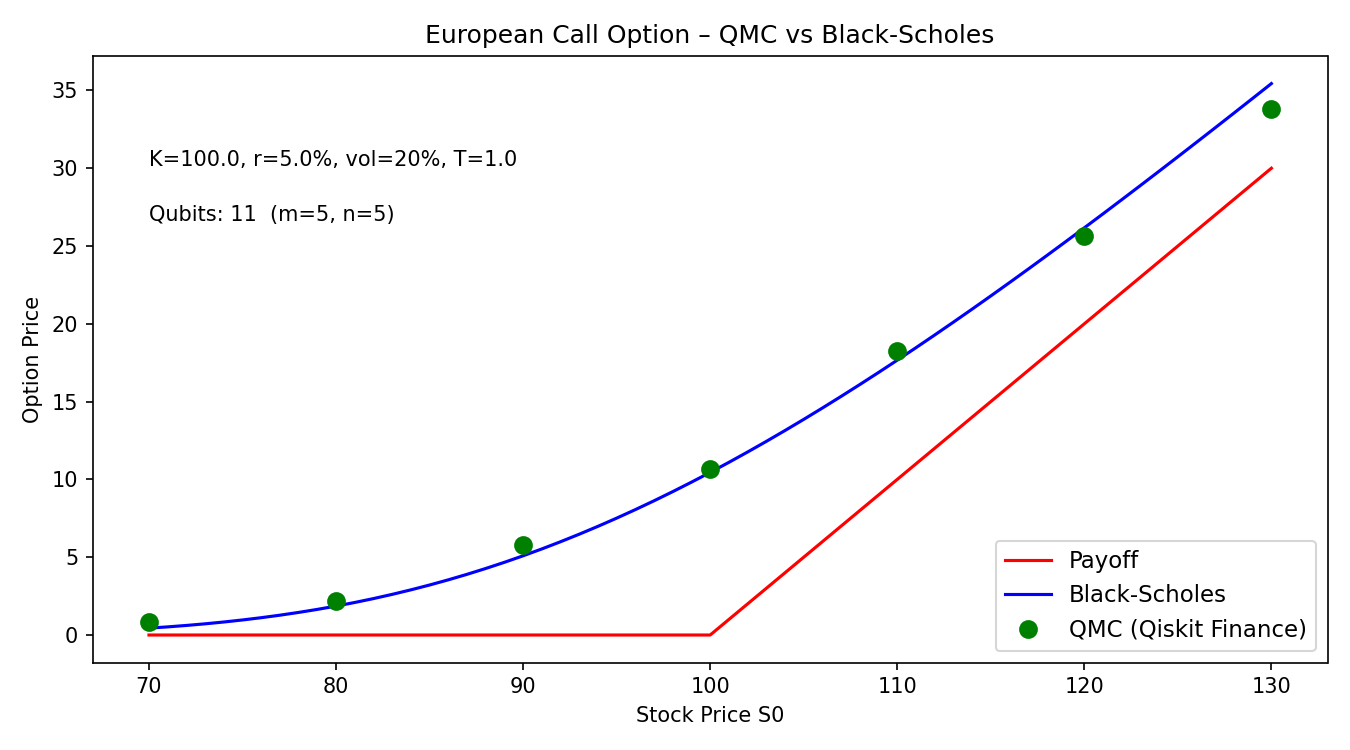
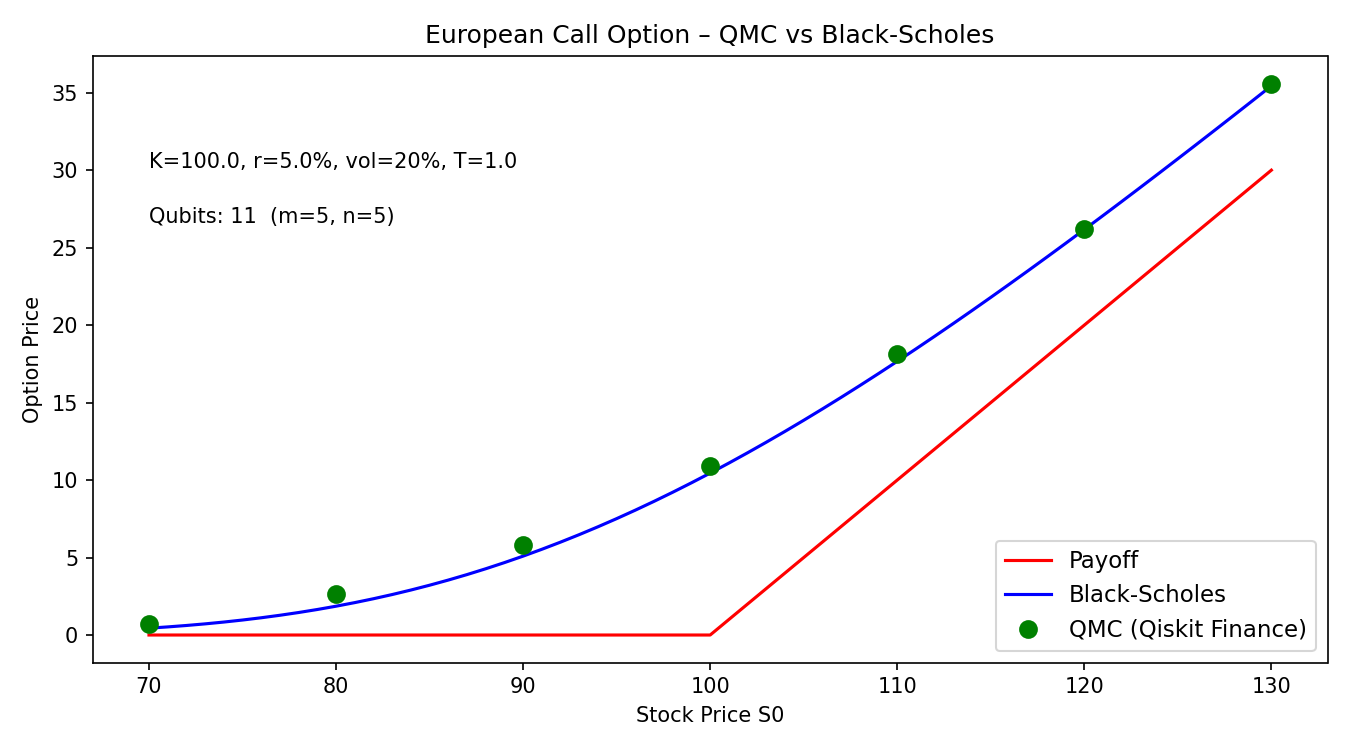
refactor(i18n): backend 잔여 error 메시지 일괄 key+params 마이그레이션
이전 commit (1fe9e38) 의 backend i18n 작업이 우선순위 高 경로만 처리.
잔여 사용자 노출 error 직박 11곳을 모두 key 기반으로 변환. legacy
error 텍스트는 호환 fallback 으로 유지 (점진 제거).

변환 대상 (mcp_server.py):
- uqi_validate / uqi_noise_simulate 의 framework 감지 실패
- uqi_validate 의 AHS validation/framework 미일치
- uqi_noise_simulate 의 AHS noise sim 실패
- uqi_job_status 의 job_id 미발견 / 미지원 vendor
- uqi_job_cancel 의 job_id 누락 / 이미 종료 상태
- cancel job 의 cloud_result 한국어 "클라우드 취소 미지원" → 영문
  (msg.cancel_local_only 의 detail 로 합쳐 표시되는 인라인 텍스트)

새 locale 키:
- backend.ahs.validation_failed / noise_sim_failed
- backend.job.not_found / unsupported_vendor / cancel_already_terminal
- (en/ko/fr + inline _LOCALE_*)

현재 상태:
- mcp_server.py 의 직박 "error" 한국어 라인은 모두 legacy fallback
  으로 유지됨 (각각 error_key 동행). webapp 가 _renderBackendError
  를 통해 i18n 렌더링하므로 사용자 노출 X.
- "수백 곳" 으로 추정했던 영문/한국어 텍스트는 대부분 print/주석/
  docstring (사용자 노출 X). 마이그레이션 대상은 ~11곳에 한정.

회귀 1013/1013 통과.

diff --git a/src/mcp_server.py b/src/mcp_server.py
@@ -360,7 +360,12 @@ def _validate_ahs(algorithm_file: str, qpu_name: str) -> str:
     try:
         framework = UQIExtractor(algorithm_file).detect_framework()
     except Exception as e:
-        return _json.dumps({"ok": False, "error": f"framework 감지 실패: {e}"})
+        return _json.dumps({
+            "ok":           False,
+            "error_key":    "backend.framework_detect_failed",
+            "error_params": {"detail": str(e)},
+            "error":        f"framework 감지 실패: {e}",
+        })
 
     checks = []
     metrics = {}
@@ -446,10 +451,19 @@ def _validate_ahs(algorithm_file: str, qpu_name: str) -> str:
                            is_parameterized,
                            "Parameterized (variables present)" if is_parameterized else f"build failed: {msg[:80]}")
         else:
-            return _json.dumps({"ok": False,
-                                "error": f"AHS framework 아님: {framework}"})
+            return _json.dumps({
+                "ok":           False,
+                "error_key":    "backend.ahs.not_ahs_framework",
+                "error_params": {"framework": framework},
+                "error":        f"AHS framework 아님: {framework}",
+            })
     except Exception as e:
-        return _json.dumps({"ok": False, "error": f"AHS validation 실패: {e}"})
+        return _json.dumps({
+            "ok":           False,
+            "error_key":    "backend.ahs.validation_failed",
+            "error_params": {"detail": str(e)},
+            "error":        f"AHS validation 실패: {e}",
+        })
 
     overall_ok = all(c["passed"] for c in checks) if checks else False
     _result = _json.dumps({
@@ -501,7 +515,11 @@ def _noise_simulate_ahs(algorithm_file: str, qpu_name: str, shots: int) -> str:
         ext = UQIExtractor(algorithm_file)
         framework = ext.detect_framework()
     except Exception as e:
-        return _json.dumps({"error": f"framework 감지 실패: {e}"})
+        return _json.dumps({
+            "error_key":    "backend.framework_detect_failed",
+            "error_params": {"detail": str(e)},
+            "error":        f"framework 감지 실패: {e}",
+        })
 
     try:
         if framework == "Pulser":
@@ -530,7 +548,11 @@ def _noise_simulate_ahs(algorithm_file: str, qpu_name: str, shots: int) -> str:
                 key = "".join(str(int(b)) for b in post)
                 counts[key] = counts.get(key, 0) + 1
         else:
-            return _json.dumps({"error": f"AHS framework 아님: {framework}"})
+            return _json.dumps({
+                "error_key":    "backend.ahs.not_ahs_framework",
+                "error_params": {"framework": framework},
+                "error":        f"AHS framework 아님: {framework}",
+            })
 
         total = sum(counts.values()) or 1
         probs = {k: v/total for k, v in counts.items()}
@@ -551,7 +573,11 @@ def _noise_simulate_ahs(algorithm_file: str, qpu_name: str, shots: int) -> str:
                 pass
         return _result
     except Exception as e:
-        return _json.dumps({"error": f"AHS noise sim 실패: {e}"})
+        return _json.dumps({
+            "error_key":    "backend.ahs.noise_sim_failed",
+            "error_params": {"detail": str(e)},
+            "error":        f"AHS noise sim 실패: {e}",
+        })
 
 
 # Pasqal 백엔드 선택: PCS 직제출(=pcs) primary + Azure Quantum(=azure) fallback.
@@ -4059,7 +4085,11 @@ async def uqi_job_status(job_id: str) -> str:
             # 1) job store에서 캐시 확인
             stored = _job_store.get_job(job_id)
             if stored is None:
-                return json.dumps({"error": f"job_id를 찾을 수 없습니다: {job_id}"})
+                return json.dumps({
+                    "error_key":    "backend.job.not_found",
+                    "error_params": {"job_id": job_id},
+                    "error":        f"job_id를 찾을 수 없습니다: {job_id}",
+                })
 
             # 완료/취소/확정실패 상태면 클라우드 재조회 없이 즉시 리턴
             # error는 polling 버그로 인한 오기록일 수 있으므로 클라우드 재조회 허용
@@ -4109,7 +4139,11 @@ async def uqi_job_status(job_id: str) -> str:
                     from uqi_executor_azure import UQIExecutorAzure
                     result = UQIExecutorAzure.fetch_job_status(job_id)
             else:
-                return json.dumps({"error": f"미지원 vendor: {vendor}"})
+                return json.dumps({
+                    "error_key":    "backend.job.unsupported_vendor",
+                    "error_params": {"vendor": vendor},
+                    "error":        f"미지원 vendor: {vendor}",
+                })
 
             # 3) job store 업데이트
             if result.get("done") and result.get("counts"):
@@ -4157,13 +4191,20 @@ async def uqi_job_cancel(job_id: str) -> str:
         try:
             stored = _job_store.get_job(job_id)
             if stored is None:
-                return json.dumps({"ok": False, "error": f"job_id 없음: {job_id}"})
+                return json.dumps({
+                    "ok":           False,
+                    "error_key":    "backend.job.not_found",
+                    "error_params": {"job_id": job_id},
+                    "error":        f"job_id 없음: {job_id}",
+                })
 
             if stored["status"] in ("done", "cancelled"):
                 return json.dumps({
-                    "ok": False,
-                    "error": f"이미 {stored['status']} 상태 — 취소 불가",
-                    "status": stored["status"],
+                    "ok":           False,
+                    "error_key":    "backend.job.cancel_already_terminal",
+                    "error_params": {"status": stored["status"]},
+                    "error":        f"이미 {stored['status']} 상태 — 취소 불가",
+                    "status":       stored["status"],
                 })
             # error 상태는 로컬 버그 오기록일 수 있으므로 클라우드 취소 시도 허용
 
@@ -4171,7 +4212,9 @@ async def uqi_job_cancel(job_id: str) -> str:
             from uqi_pricing import get_pricing
             _pmeta = get_pricing(stored["qpu_name"]) or {}
             vendor = _pmeta.get("vendor", "")
-            cloud_result = {"ok": False, "error": "클라우드 취소 미지원"}
+            # cloud_result 의 error 는 webapp 의 msg.cancel_local_only 에 detail 로
+            # 합쳐 표시됨 — error_key 별도 부여보다 detail 그대로 노출이 자연스러움.
+            cloud_result = {"ok": False, "error": "cloud cancel not supported"}
 
             # 클라우드 취소 시도 (실패해도 로컬 취소는 진행)
             try: